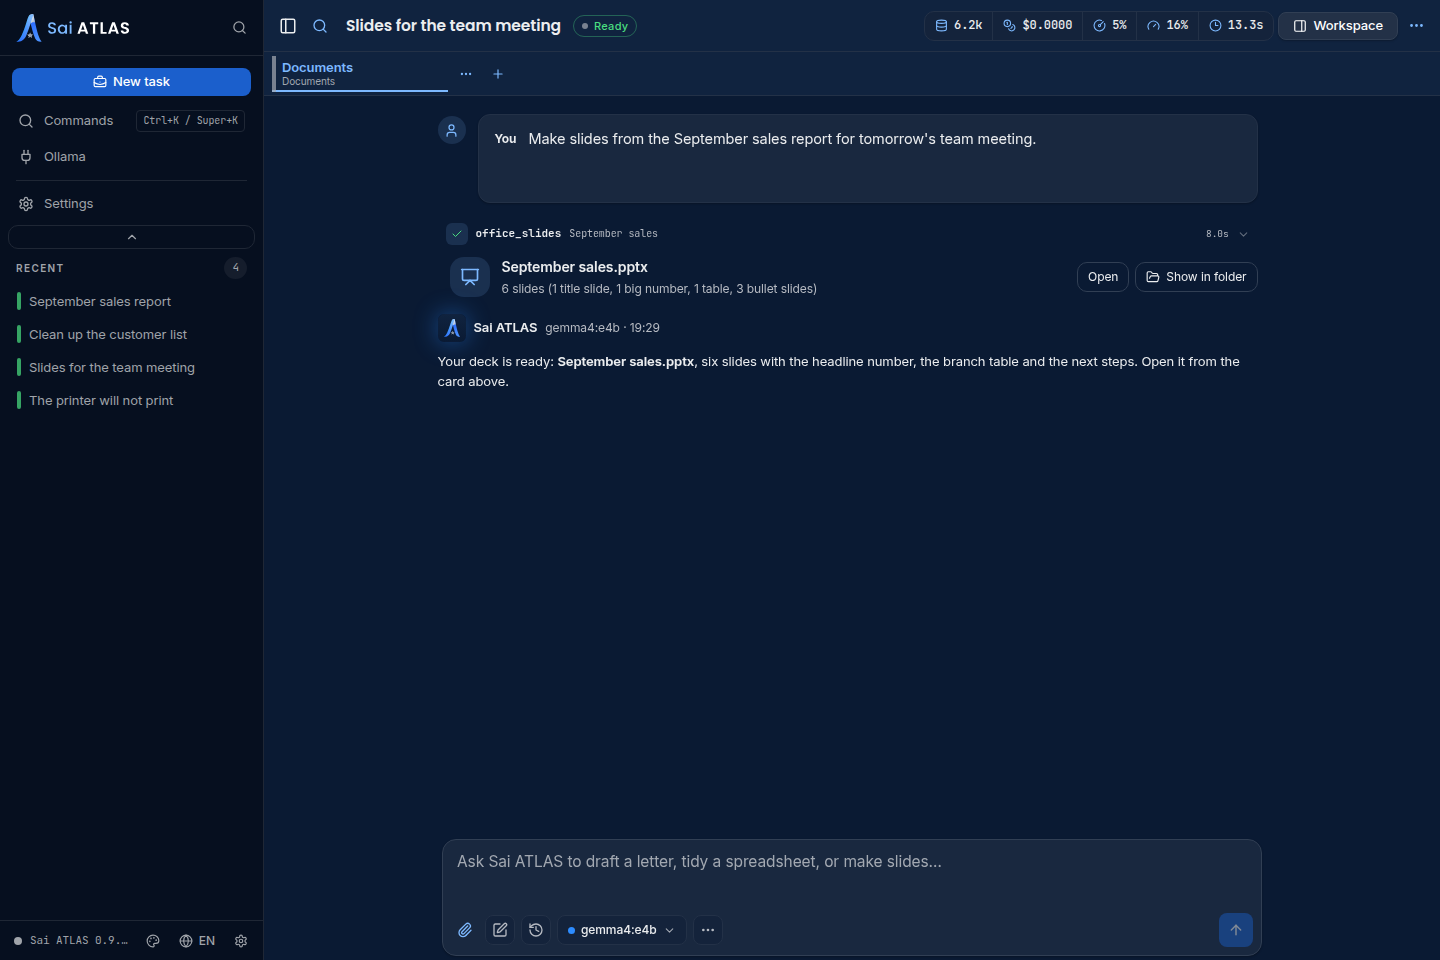
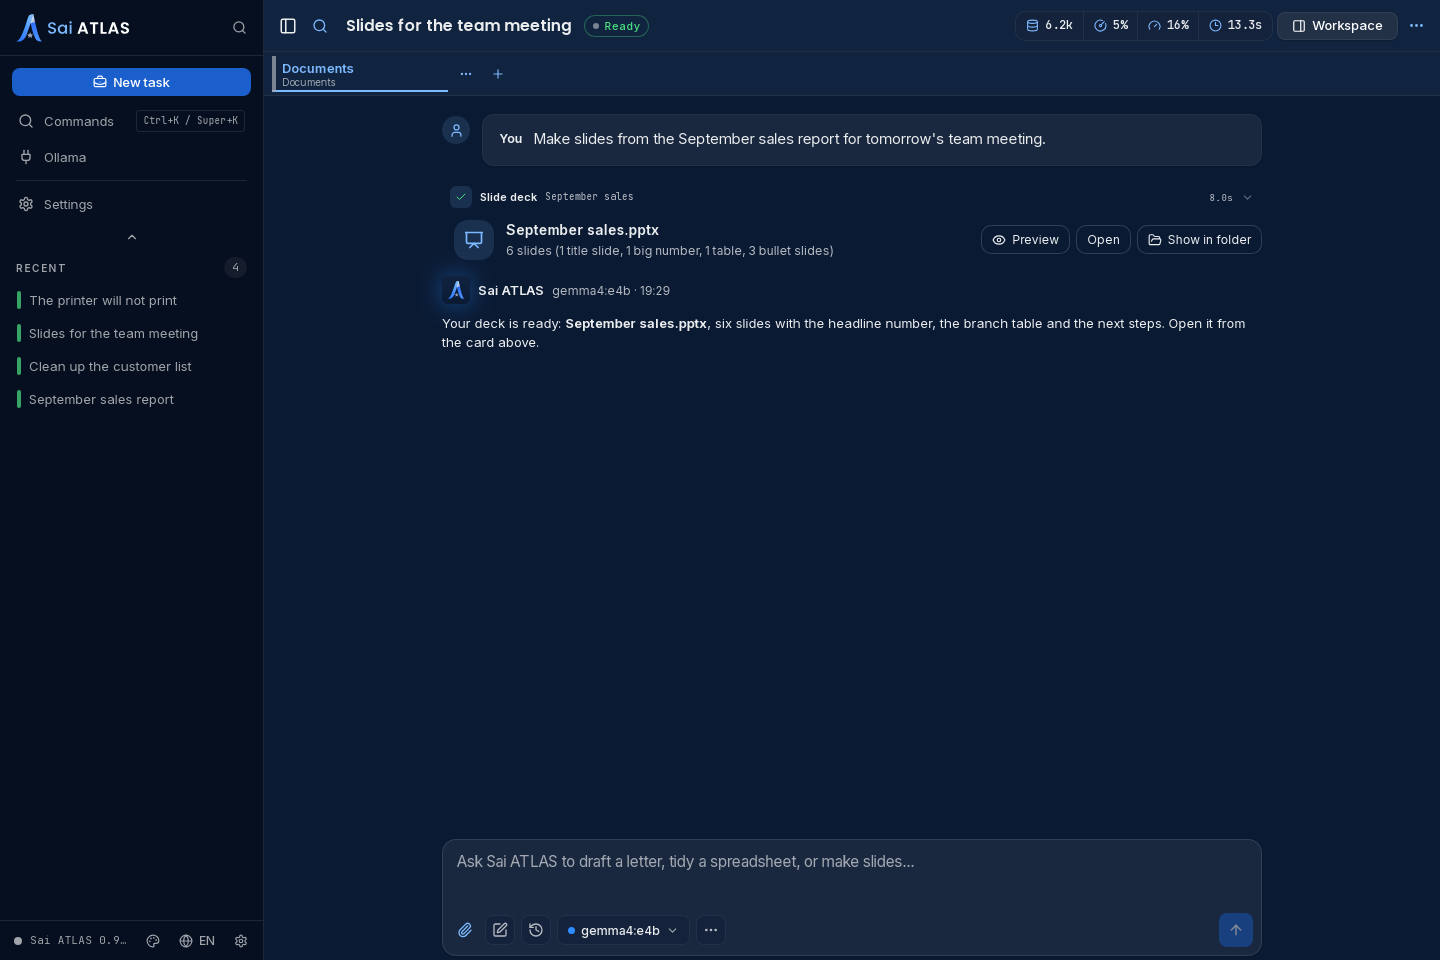
docs: add design and UX review guides and refresh showcase screenshots

diff --git a/docs/DESIGN.md b/docs/DESIGN.md
@@ -1,0 +1,64 @@
+# Sai ATLAS design
+
+Sai ATLAS is a calm, private assistant for everyday office work on SAI OS: it
+writes the report, tidies the spreadsheet, makes the slides and helps when the
+computer misbehaves, all on the user's own machine.
+
+Read this before UI work in `src/renderer/` or `site/`. The tokens below are
+defined in code; this file explains them and does not replace them.
+
+## Audience and voice
+
+- The audience is office workers, not developers. Lead with the outcome
+  ("Your report is ready"), name files and folders the way the user sees them,
+  and keep jargon (tokens, cache, providers, endpoints) behind Settings or a
+  tooltip.
+- Plain sentences, sentence case for labels and buttons, a verb plus an object
+  for actions ("Open in folder", "Download model").
+- Every user-visible string exists in English and Vietnamese
+  (`src/renderer/locales/en.ts`, `vi.ts`). When a count can be one, give it a
+  singular key rather than "(1 models)".
+- Local-only is the promise: never show figures that only make sense for paid
+  cloud models (a cost of zero is hidden, not printed as `$0.0000`).
+
+## Brand
+
+- The product name is always "Sai ATLAS"; the logo comes from
+  `<SaiAtlasLogo>` and `src/renderer/public/brand/` (see `AGENTS.md` →
+  Product identity).
+- Signature: a deep navy canvas with one blue accent, Poppins for display
+  text, Inter for UI text, JetBrains Mono for paths, figures and shortcuts.
+- The public site (`site/`) uses a teal accent on near-black; aligning it with
+  the app's blue is an open brand decision, so do not change either alone.
+
+## Tokens (source of truth in code)
+
+| Kind | Where | Notes |
+|---|---|---|
+| Colour | `src/renderer/styles/theme-dark.css`, `theme-light.css` | `--omp-accent` (#7db9ff dark, #1b5fcc light), `--omp-bg-primary` canvas, `--omp-bg-elevated` floating surfaces, `--omp-text` / `--omp-text-secondary` / `--omp-dim`, semantic `--omp-success` / `--omp-warning`. |
+| Type scale | `src/renderer/styles/global.css` (`--text-omp-xxs` … `--text-omp-xl`) | Scales with the user's font size; never write `text-[Npx]` below 16 px (`scripts/lint-surfaces.mjs`). |
+| Families | `--font-display`, the default sans, `--font-mono` | Display for headings, mono only for machine values. |
+| Motion | `--omp-motion-fast` 120 ms, `--omp-motion-med` 180 ms, `--omp-motion-slow` 280 ms; `--omp-ease`, `--omp-ease-enter` | Interaction transitions use `fast` or `med` (linted); animate opacity and transform only; reduced motion removes non-essential movement. |
+| Surfaces | SURFACE POLICY in `global.css` | Content is transparent on the canvas; only chrome, overlays, states and semantic fills paint. |
+| Shadow | `--omp-shadow-sm` | Floating toolbars and bubbles only. |
+
+## Layout
+
+- The main window is never narrower than 800×600
+  (`src-tauri/src/desktop/window_bounds.rs`). Check 1440×900, 1024×768 and
+  800×600; at 800 the task title must stay readable before any metric does.
+- Hover-only controls must not reserve empty space: float them (see the user
+  message toolbar in `components.css`) and also show them on keyboard focus
+  and on devices without hover.
+- Labels wrap rather than truncate when the text is the only way to know what
+  a control does (settings navigation groups).
+
+## Do and don't
+
+- Do show the real file the assistant made, with Preview, Open and Show in
+  folder next to it.
+- Do keep one primary action per view; secondary actions are outlined or text.
+- Don't add new `max-h-*` preview sizes; use the tiers in
+  `src/renderer/lib/preview.ts`.
+- Don't render model text outside `MarkdownRenderer`.
+- Don't add a figure, badge or colour without a user question it answers.

diff --git a/docs/REVIEW.md b/docs/REVIEW.md
@@ -1,0 +1,45 @@
+# UX and AX review checklist
+
+Use this for any change that touches what people see in the app
+(`src/renderer/`) or on the public site (`site/`). `docs/DESIGN.md` holds the
+direction this checklist checks against.
+
+## Evidence that goes with a UI change
+
+- Screenshots of every changed surface, before and after. App: 1440×900,
+  1024×768 and 800×600 (the window minimum). Site: 1440×900, 768×1024 and
+  375×812.
+- App captures run out of sight: `scripts/virtual-display.sh run -- …` for
+  the Tauri build (see `AGENTS.md` → Running the GUI Out of Sight).
+- Both locales when copy changed, and both themes when colour changed.
+
+## UX checks
+
+| Area | Pass when |
+|---|---|
+| First impression | A newcomer can tell what to do next within five seconds; one primary action per view. |
+| Clarity | No developer-only figures or jargon in the main window; numbers carry a label or tooltip. |
+| Copy | Sentence case, outcome first, English and Vietnamese keys added together, singular forms for counts of one. |
+| Responsive | No horizontal overflow, clipped text or overlapping controls at the three sizes; the task title stays readable at 800 px. |
+| Motion | Uses the motion tokens; nothing over 300 ms for UI transitions; reduced motion removes non-essential movement. |
+| Accessibility | Keyboard reachable with a visible focus ring; icon buttons have an accessible name; text contrast at least 4.5:1. |
+| Trust | Commands that run as administrator are shown before they run; nothing leaves the machine without the user asking. |
+
+## AX checks for the public site
+
+Run against a local server of `site/`:
+
+```bash
+node .claude/skills/ak-enhance-ux-ax/scripts/check-discovery-surfaces.mjs \
+  http://127.0.0.1:<port>/ --site-origin https://tung491.github.io/sai-atlas/
+```
+
+- Exit code 0. Accepted warnings: GitHub Pages cannot send `X-Robots-Tag` or
+  `Vary` headers, and there is no long-form docs content for `llms-full.txt`.
+- When the page's content changes, update `site/index.md` (the Markdown twin),
+  `site/llms.txt` and the JSON-LD in `site/index.html` in the same commit, and
+  bump `lastmod` in `site/sitemap.xml`.
+- When the headline changes, regenerate `site/assets/og-card.png`
+  (1200×630) under a new file name so social caches refresh.
+- Every section is readable with JavaScript turned off.
+- The primary download link resolves to a published release.

diff --git a/AGENTS.md b/AGENTS.md
@@ -108,6 +108,7 @@ Agents launch the GUI on a virtual display by default, so its windows, notificat
 - Tool-rendered text follows the monorepo's TUI sanitization rules (tabs, truncation, path shortening) via the helpers in `src/renderer/lib/format.ts`.
 - Preview ceilings come from the tiers in `src/renderer/lib/preview.ts` (`PREVIEW_SCROLL_*` + line caps) — don't invent new `max-h-*` values in tool renderers. Captured subprocess output renders through `AnsiText` (`src/renderer/lib/ansi.tsx`), never raw (ANSI escapes would print literally).
 - Tests use the linkedom harness pattern (see `src/renderer/components/chat/ThinkingBlock.test.tsx`); zustand stores are reset in `afterEach` via their `reset()`/setters — never `mock.module()`.
+- UI and site work: read `docs/DESIGN.md` first and verify with `docs/REVIEW.md` — screenshots at 1440×900, 1024×768 and 800×600 for the app (the window minimum) and 1440/768/375 for `site/`. When the site's content or routes change, keep its discovery files in step (`site/index.md`, `site/llms.txt`, `site/sitemap.xml`, the JSON-LD and the OG card).
 
 ## Examples
 
